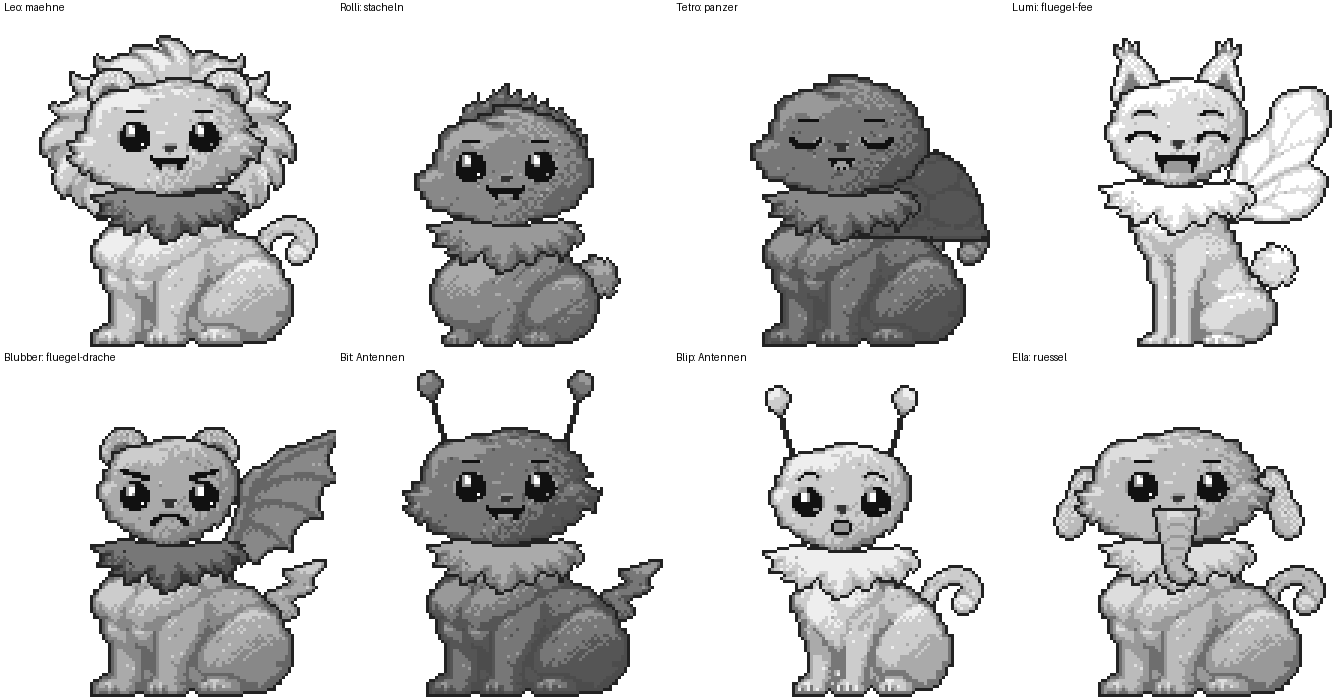
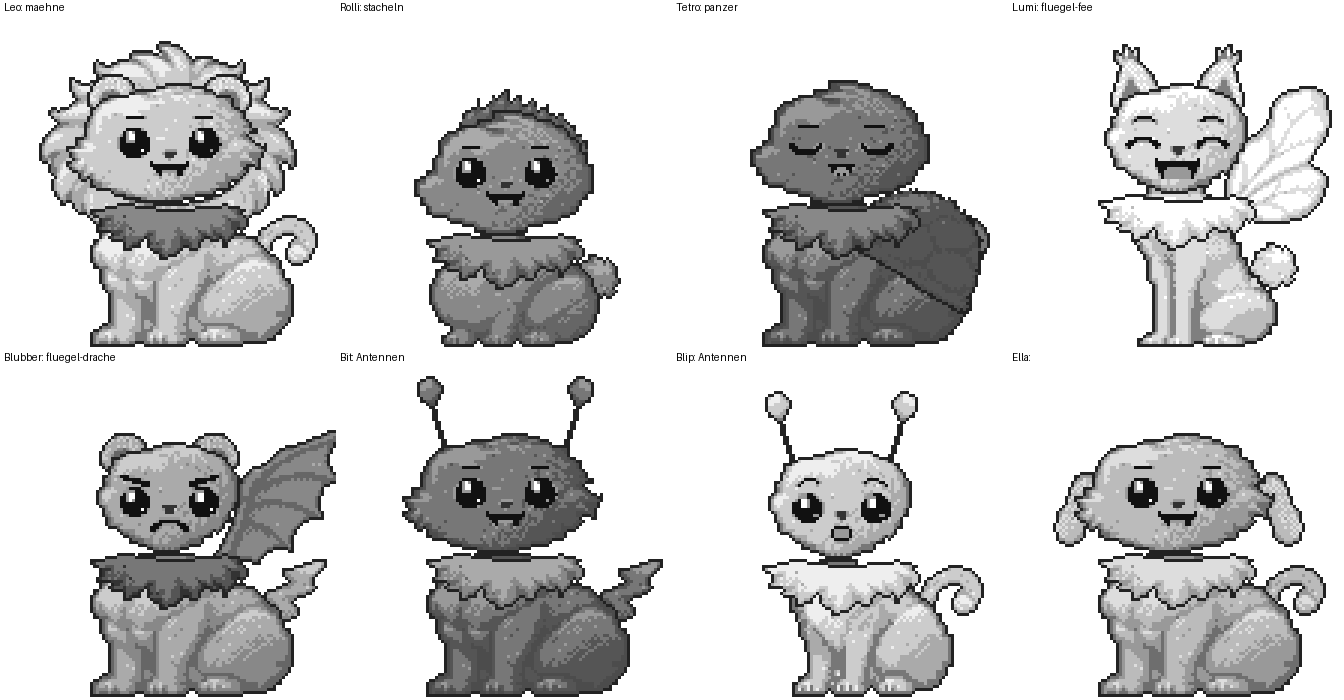
Bausatz: Ruessel entfernt, Krause hinter dem Kopf und tiefer, Panzer schraeg
Claude-Session: https://claude.ai/code/session_01X43J6dzQtUUHUsjwp3UbdM

diff --git a/entwuerfe/bausatz-test/formen.py b/entwuerfe/bausatz-test/formen.py
@@ -10,6 +10,10 @@ from basis3 import Leinwand, rollen, muster_maske, W, H, HIER, TEILE, Z
 from ki_teile import lade_teil
 
 BODEN = 110
+KRUSE_TIEFER_STANDARD = 3   # Halskrause sitzt so viele Pixel unter dem Kopf-Hals: der Kopf sitzt am Hals, nicht auf der Krause
+PANZER_WINKEL = 30       # Grad, nach rechts unten gekippt
+PANZER_VERSATZ = (-14, 8)  # Verschiebung gegenüber dem Rückenansatz
+KRUSE_TIEFER = {}
 KOPF_TIEFER = {}   # Platz für kopfspezifische Absenkung (der spitze Kopf wurde am 27.11. entfernt)
 
 def datei(art, form, bevorzugt=None):
@@ -21,12 +25,12 @@ def datei(art, form, bevorzugt=None):
 def raster(p): return np.array(Image.open(p).convert('RGB'))[::Z, ::Z, 0]
 
 def baue_form(koerper='sitzend', kopf='3-4', kruse=2, ohren='spitz', schwanz='buschig', gesicht='freundlich',
-              fell=204, kranz=238, muster=None, kopf_ueber=None, merkmale=()):
+              fell=204, kranz=238, muster=None, kopf_ueber=None, merkmale=(), kruse_tiefer=None, kruse_hinten=True):
     kf, hf = L.KOERPER_FORMEN[koerper], L.KOPF_FORMEN[kopf]
     khx, khy = hf['hals']
     if kopf_ueber is None:
         kopf_ueber = {'schlank': 1}.get(koerper, 4)   # hohe Körper: Kopf tiefer, damit lange Ohren nicht abgeschnitten werden
-        kopf_ueber -= KOPF_TIEFER.get(kopf, 0)
+        kopf_ueber -= KOPF_TIEFER.get(kopf, 0) + 2      # Kopf sitzt 2 Pixel tiefer am Hals (27.11.)
     gw, gh = kf['groesse']; hx, hy = kf['hals']
     zx, zy = 56, BODEN - (gh - 1) + hy                  # Körper-Hals auf der Leinwand
     kx, ky = 56, zy - kopf_ueber                         # Kopf-Hals
@@ -65,16 +69,23 @@ def baue_form(koerper='sitzend', kopf='3-4', kruse=2, ohren='spitz', schwanz='bu
                 if 0 <= cy < H:
                     c.g[cy, cx] = r.get(int(ra[py, px]), int(ra[py, px])); c.a[cy, cx] = True
     def panzer():
-        """Panzer liegt wie ein Rucksack auf dem Rücken (links unten am Rückenansatz, nach rechts begrenzt auf die Leinwand)."""
+        """Panzer liegt schräg auf dem Rücken (um PANZER_WINKEL nach rechts unten gekippt, folgt der Rückenlinie)."""
         t = lade_teil('merkmal', 'panzer')
         if t is None: return
         ra, (ax, ay) = t
-        ys2, xs2 = np.nonzero(ra != 255)
-        ox, oy = rueck[0] - 14, rueck[1] + 6
+        bild = Image.fromarray(ra.astype(np.uint8), 'L').rotate(-PANZER_WINKEL, resample=Image.NEAREST, expand=True, fillcolor=255)
+        rr = np.array(bild)
+        # Rotierte Position des Ansatzpunktes (links unten) bestimmen
+        h0, w0 = ra.shape; h1, w1 = rr.shape
+        px, py = ax - w0 / 2, ay - h0 / 2
+        a_ = np.deg2rad(PANZER_WINKEL)
+        qx, qy = px * np.cos(a_) - py * np.sin(a_) + w1 / 2, px * np.sin(a_) + py * np.cos(a_) + h1 / 2
+        ys2, xs2 = np.nonzero(rr != 255)
+        ox, oy = rueck[0] + PANZER_VERSATZ[0], rueck[1] + PANZER_VERSATZ[1]
         for y2, x2 in zip(ys2, xs2):
-            cx, cy = x2 - ax + ox, y2 - ay + oy
+            cx, cy = int(round(x2 - qx + ox)), int(round(y2 - qy + oy))
             if 0 <= cx < W and 0 <= cy < H:
-                c.g[cy, cx] = r.get(int(ra[y2, x2]), int(ra[y2, x2])); c.a[cy, cx] = True
+                c.g[cy, cx] = r.get(int(rr[y2, x2]), int(rr[y2, x2])); c.a[cy, cx] = True
     for m in merkmale:
         if m == 'stacheln': stacheln()
         elif m in ('fluegel-fee', 'fluegel-drache'): merk(m, rueck)   # hinter dem Körper
@@ -97,17 +108,20 @@ def baue_form(koerper='sitzend', kopf='3-4', kruse=2, ohren='spitz', schwanz='bu
                 ol = (hf['ohr_l'][0] - khx, hf['ohr_l'][1] - khy); orr = (hf['ohr_r'][0] - khx, hf['ohr_r'][1] - khy)
             c.teil(t[0], t[1], (kx + ol[0], ky + ol[1]), r)
             c.teil(t[0], t[1], (W - 1 - (kx + orr[0]), ky + orr[1]), r, spiegeln=True)
+    if kruse_tiefer is None: kruse_tiefer = KRUSE_TIEFER.get(kopf, KRUSE_TIEFER_STANDARD)
+    def zeichne_kruse():
+        c.teil(raster(TEILE / f'kruse-flauschig-{kruse}.png'), (28, 2), (kx, ky + kruse_tiefer), {34: 34, 238: kranz, 204: kranz - 34, 170: kranz - 68})
+    if kruse_hinten: zeichne_kruse()                                                # Krause hinter dem Kinn: der Kopf sitzt am Hals
     c.teil(raster(datei('kopf', kopf)), (khx, khy), (kx, ky), r)
     if muster:
         m, d = muster_maske(muster)
         ok = m & c.a & (c.g >= 85) & (c.g < 250)
         c.g[ok] = np.clip(np.round((c.g[ok] + d) / 17) * 17, 0, 255)
-    c.teil(raster(TEILE / f'kruse-flauschig-{kruse}.png'), (28, 2), (kx, ky), {34: 34, 238: kranz, 204: kranz - 34, 170: kranz - 68})
+    if not kruse_hinten: zeichne_kruse()
     if gesicht:
         t = lade_teil('gesicht', gesicht)
         if t is not None:
             c.teil(t[0], t[1], (kx + hf['gesicht'][0] - khx, ky + hf['gesicht'][1] - khy), {34: 17, 119: 51, 170: 102, 204: 153, 238: 255})
-    if 'ruessel' in merkmale: merk('ruessel', (kopfmitte[0], kopfmitte[1] + 4))
     return c
 
 KOERPER = ['sitzend', 'rundlich', 'schlank', 'kraeftig']

diff --git a/entwuerfe/bausatz-test/basis3_layout.py b/entwuerfe/bausatz-test/basis3_layout.py
@@ -51,7 +51,6 @@ KOPF_FORMEN = {
 # Artmerkmale: Ansatz auf der Leinwand wird je Körperform aus der Rückenlinie abgeleitet:
 #   Rücken-Ansatz = (Hals-x + 16, Oberkante des Körpers an dieser Spalte).
 #   Mähne: Mitte hinter dem Kopf (Kopfmitte = Gesicht-Ansatz des Kopfes).
-#   Rüssel: oben auf der Nase = Gesicht-Ansatz + (0, 4).
 #   Antennen und Hörner sind Ohren-Teile (ki/teile/ohr-antenne-*.png, ohr-horn-*.png) und nutzen die Ohren-Ansätze.
 RUECKEN_VERSATZ = 16
 MERKMALE = {
@@ -59,5 +58,4 @@ MERKMALE = {
     'stacheln': dict(art='ruecken_hinten', groesse=(48, 32), anker=(6, 26)),
     'panzer':   dict(art='ruecken_vorn', groesse=(56, 44), anker=(6, 40)),
     'fluegel':  dict(art='ruecken_hinten', groesse=(56, 56), anker=(6, 50)),
-    'ruessel':  dict(art='vor_gesicht', groesse=(24, 40), anker=(12, 2)),
 }

diff --git a/entwuerfe/bausatz-test/aufstellung.py b/entwuerfe/bausatz-test/aufstellung.py
@@ -8,7 +8,7 @@ from formen import baue_form
 F = {
  'Evi':      (2, 2, 2, 'spitz', 'buschig', 'freundlich', 187, 238, None, ''),
  'Lotti':    (1, 1, 1, 'spitz', 'puschel', 'freundlich', 170, 255, 'tupfen', 'Rehohren, Stummelschwanz'),
- 'Ella':     (3, 3, 3, 'haengend', 'duenn', 'freundlich', 187, 221, None, 'Rüssel'),
+ 'Ella':     (3, 3, 3, 'haengend', 'duenn', 'freundlich', 187, 221, None, 'Rüssel verworfen'),
  'Glöckchen':(2, 1, 2, 'haengend', 'puschel', 'lachend', 238, 255, None, 'Glöckchen'),
  'Kiwi':     (3, 2, 1, None, 'blitz', 'freundlich', 153, 221, 'tupfen', 'Dino-Zacken'),
  'Klecksi':  (1, 3, 2, 'haengend', 'duenn', 'lachend', 255, 255, 'flecken', 'Halsband'),

diff --git a/entwuerfe/bausatz-test/artmerkmale.py b/entwuerfe/bausatz-test/artmerkmale.py
@@ -12,7 +12,7 @@ F = [  # Name, Körper, Kopf, Ohren, Schwanz, Gesicht, Fell, Kranz, Merkmale
  ('Blubber', 'kraeftig', 'klein-rund', 'rund', 'blitz', 'wuetend', 170, 119, ('fluegel-drache',)),
  ('Bit', 'kraeftig', 'breit', 'antenne', 'blitz', 'freundlich', 119, 170, ()),
  ('Blip', 'sitzend', 'klein-rund', 'antenne', 'duenn', 'ueberrascht', 204, 238, ()),
- ('Ella', 'kraeftig', 'breit', 'haengend', 'duenn', 'freundlich', 187, 221, ('ruessel',)),
+ ('Ella', 'kraeftig', 'breit', 'haengend', 'duenn', 'freundlich', 187, 221, ()),
 ]
 if __name__ == '__main__':
     z, cols = 3, 4

diff --git a/entwuerfe/bausatz-test/schablonen_basis.py b/entwuerfe/bausatz-test/schablonen_basis.py
@@ -63,5 +63,4 @@ schablone('schablone-merkmal-stacheln.png', 48, 32, [((6, 26), 'Rücken', ROT)],
 schablone('schablone-merkmal-panzer.png', 56, 44, [((6, 40), 'Rücken', ROT)], 'Panzer 56x44',
           [('linie', [(0, 40), (28, 42), (55, 43)], 'Unterkante liegt auf dem Rücken')])
 schablone('schablone-merkmal-fluegel.png', 56, 56, [((6, 50), 'Schulter', ROT)], 'Fluegel 56x56')
-schablone('schablone-merkmal-ruessel.png', 24, 40, [((12, 2), 'Nase', ROT)], 'Ruessel 24x40')
 print('fertig')

diff --git a/entwuerfe/bausatz-test/ki_teile.py b/entwuerfe/bausatz-test/ki_teile.py
@@ -31,7 +31,6 @@ SCHABLONEN = {
     'merkmal-fluegel': ((56, 56), (6, 50)),
     'merkmal-fluegel-fee': ((56, 56), (6, 50)),
     'merkmal-fluegel-drache': ((56, 56), (6, 50)),
-    'merkmal-ruessel': ((24, 40), (12, 2)),
     'kopf': ((60, 44), (30, 40)),
     'kruse': ((56, 20), (28, 2)),
 }

diff --git a/entwuerfe/bausatz-test/PROMPT-ki-merkmale.md b/entwuerfe/bausatz-test/PROMPT-ki-merkmale.md
@@ -1,6 +1,6 @@
 # Prompt für die Bild-KI: Artmerkmale (27. November 2026)
 
-Ziel: Aus den katzenartigen Körpern echte Arten machen. Erste Runde: **Mähne** (Leo), **Stacheln** (Rolli), **Panzer** (Tetro), **Flügel** (Lumi, Blubber), **Antennen** (Bit, Blip), **Rüssel** (Ella). Gleiche Methode wie [PROMPT-ki-teile.md](PROMPT-ki-teile.md): ein Teil allein auf der Schablone, feste Grauwerte, Skript setzt zusammen.
+Ziel: Aus den katzenartigen Körpern echte Arten machen. Erste Runde: **Mähne** (Leo), **Stacheln** (Rolli), **Panzer** (Tetro), **Flügel** (Lumi, Blubber), **Antennen** (Bit, Blip), . Gleiche Methode wie [PROMPT-ki-teile.md](PROMPT-ki-teile.md): ein Teil allein auf der Schablone, feste Grauwerte, Skript setzt zusammen.
 
 Nicht in dieser Runde: Schnecke (Mimi) und Geist (Spuki) sind andere Tiere, nicht nur ein Zusatzteil; Backentaschen (Mampf), Augenmaske und Ringe (Groschen), Schleife, Glöckchen, Halsband, Backenblitze (kleine Aufsätze, später).
 
@@ -12,14 +12,13 @@ Nicht in dieser Runde: Schnecke (Mimi) und Geist (Spuki) sind andere Tiere, nich
 | Panzer | **vor dem Körper**, deckt Rücken und Hinterteil | Rücken (6, 40) | Rückenlinie |
 | Flügel | **hinter dem Körper**, am Rücken | Schulter (6, 50) | Schulterblatt |
 | Antennen | wie **Ohren** (zwei, symmetrisch) | Ohr-Ansatz | Ohr-Ansätze des Kopfes |
-| Rüssel | **vor dem Gesicht** (deckt Nase und Mund) | Nase oben (12, 2) | Nase |
 
 Der Körper schaut nach links, der Rücken liegt rechts und fällt von der Schulter zum Hinterteil nach rechts unten ab. Die blasse blaue Hilfslinie in den Schablonen zeigt das. **Nicht mitzeichnen.**
 
 ## Anhängen
 1. Die Schablone (Kreuz = Ansatz, blasse blaue Form = Hilfe, wird nicht gezeichnet):
-   `ki/schablone-merkmal-maehne.png` (88 × 68), `…-stacheln.png` (48 × 32), `…-panzer.png` (56 × 44), `…-fluegel.png` (56 × 56), `…-ruessel.png` (24 × 40); für Antennen `ki/schablone-ohr.png` (24 × 32).
-2. **Stil:** `ki/teile/koerper-sitzend-2.png` (Körper, Mähne, Stacheln, Panzer, Flügel) bzw. `ki/teile/kopf-3-4-2.png` (Mähne, Rüssel, Antennen).
+   `ki/schablone-merkmal-maehne.png` (88 × 68), `…-stacheln.png` (48 × 32), `…-panzer.png` (56 × 44), `…-fluegel.png` (56 × 56); für Antennen `ki/schablone-ohr.png` (24 × 32).
+2. **Stil:** `ki/teile/koerper-sitzend-2.png` (Körper, Mähne, Stacheln, Panzer, Flügel) bzw. `ki/teile/kopf-3-4-2.png` (Mähne, Antennen).
 
 ## Maße
 | Teil | Datei | Raster | Ausgabe (8-fach) |
@@ -30,7 +29,6 @@ Der Körper schaut nach links, der Rücken liegt rechts und fällt von der Schul
 | Flügel Fee | `merkmal-fluegel-fee-<nr>.png` | 56 × 56 | 448 × 448 |
 | Flügel Drache | `merkmal-fluegel-drache-<nr>.png` | 56 × 56 | 448 × 448 |
 | Antenne | `ohr-antenne-<nr>.png` | 24 × 32 | 192 × 256 |
-| Rüssel | `merkmal-ruessel-<nr>.png` | 24 × 40 | 192 × 320 |
 
 ## Grauwerte (Rollen, wie bisher; zusätzlich Hinweise je Teil)
 34 Umriss (1 Pixel), 119 innen/dunkle Fugen, 170 Schatten, 204 Fell, 238 Licht, 255 Hintergrund. Nur diese Werte, Dithering, keine Halbtöne.
@@ -60,7 +58,6 @@ Draw it in EXACTLY the style, line weight and fur/shading look of the second att
 | Flügel Fee | a folded fairy wing seen from the side, slender and rounded with fine veins, pointing up and back (to the right) from the red cross | 448 x 448 |
 | Flügel Drache | a folded small dragon/bat wing seen from the side with bone spars and a scalloped membrane, pointing up and back (to the right) from the red cross | 448 x 448 |
 | Antenne | the LEFT one of a pair of thin robot/alien antennae: a straight thin stalk with a round bulb on top, leaning slightly outward (to the left); stalk 2 sprite pixels wide | 192 x 256 |
-| Rüssel | a short elephant trunk hanging down from the nose, seen from the front, slightly curled at the tip, with fine wrinkle lines; the top end attaches at the red cross | 192 x 320 |
 
 Je Teil **3 Varianten** erzeugen, die beste behalten.
 
@@ -73,4 +70,4 @@ Ich ergänze `formen.py` um diese Merkmale (Ebenenreihenfolge, Rücken-Ansatz je
 ## Grenzen
 - Die Rückenlinie ist bei jedem Körper etwas anders (schlank fällt steiler ab). Stacheln, Panzer und Flügel werden deshalb am Ansatz ausgerichtet und können an einer Körperform leicht abstehen. Das korrigiere ich über den Ansatzpunkt.
 - Die Merkmale sind für die **sitzende** Haltung gezeichnet. Für laufen, hüpfen und schlafen bräuchten sie eigene Ansätze oder neue Teile. Die Mähne und die Antennen sind davon am wenigsten betroffen, Panzer und Stacheln am meisten.
-- Der Rüssel überdeckt das Gesicht (Nase und Mund). Die Gesichter der Rüssel-Figuren bräuchten eigene Teile ohne Mund, falls der Rüssel gut aussieht.
+- **Rüssel (Ella): verworfen** am 27.11. (sah nicht gut aus); die Datei wurde entfernt.

diff --git a/entwuerfe/bausatz-test/README.md b/entwuerfe/bausatz-test/README.md
@@ -41,4 +41,7 @@ Grenzen: Seitenansichten (Laufen, Schnüffeln) gehen so nicht, dafür brauchen K
 Körper rundlich, schlank, kräftig und Köpfe klein-rund und breit (der spitze Kopf wurde verworfen) (`ki/teile/…`). `formen.py` setzt sitzende Figuren aus beliebigen Körper- und Kopfformen zusammen (`pruefbogen-formen.png`, 4 × 3 Grundformen). `aufstellung.py` baut mit diesen Formen alle 21 Figuren (`pruefbogen-aufstellung-formen.png`; der ältere Bogen mit nur einer Form heißt `pruefbogen-aufstellung.png`). Nur sitzend; die Posen laufen, hüpfen, geduckt, eingerollt gibt es bisher nur für die Normalform.
 
 ## Artmerkmale (27. November 2026)
-Teile in `ki/teile/`: `merkmal-maehne`, `merkmal-stacheln`, `merkmal-panzer`, `merkmal-fluegel-fee`, `merkmal-fluegel-drache`, `merkmal-ruessel`, `ohr-antenne`. `formen.py` setzt sie über den Parameter `merkmale` ein (Mähne hinter dem Kopf, Stacheln als Band entlang Kopf und Rücken, Panzer wie ein Rucksack, Flügel hinter dem Körper, Rüssel vor dem Gesicht, Antennen als Ohren). Prüfbogen: `pruefbogen-artmerkmale.png` (Leo, Rolli, Tetro, Lumi, Blubber, Bit, Blip, Ella). Nur sitzend.
+Teile in `ki/teile/`: `merkmal-maehne`, `merkmal-stacheln`, `merkmal-panzer`, `merkmal-fluegel-fee`, `merkmal-fluegel-drache`, `ohr-antenne`. `formen.py` setzt sie über den Parameter `merkmale` ein (Mähne hinter dem Kopf, Stacheln als Band entlang Kopf und Rücken, Panzer wie ein Rucksack, Flügel hinter dem Körper, Antennen als Ohren (der Rüssel wurde am 27.11. verworfen)). Prüfbogen: `pruefbogen-artmerkmale.png` (Leo, Rolli, Tetro, Lumi, Blubber, Bit, Blip, Ella). Nur sitzend.
+
+## Halskrause und Panzer angepasst (27. November 2026)
+Die Halskrause liegt jetzt **hinter dem Kopf** und 3 Pixel tiefer (`KRUSE_TIEFER_STANDARD` in `formen.py`); der Kopf sitzt 2 Pixel tiefer am Körperhals. So sieht man einen kleinen Hals über der Krause und der Kopf sitzt nicht mehr auf ihr. Der Panzer ist um 30° nach rechts unten gekippt (`PANZER_WINKEL`, `PANZER_VERSATZ`). Der Rüssel wurde entfernt.
